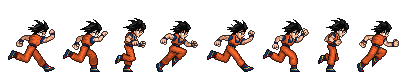
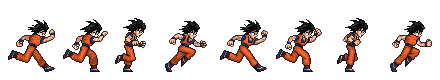
[MOD] corrected run sprite

Changed region(s): [[0.0, 0.225, 0.8529, 0.9], [0.8529, 0.25, 1.0, 0.9]]

diff --git a/src/Game.cpp b/src/Game.cpp
@@ -14,7 +14,7 @@ Game::Game(std::shared_ptr<ResourceAllocator<sf::Texture>> alloc, std::shared_pt
     _player.setTextureAllocator(_alloc);
     _player.load("assets/goku.png");
     _player.setSpritePosition(500, 505);
-    _player.setSpriteRect(0, 51, 80);
+    _player.setSpriteRect(0, 55, 80);
     _music.loadSound("dbz", "assets/music_dbz.ogg");
     _background.setTextureAllocator(_alloc);
     _background.load("assets/Gbackground.png");
@@ -98,7 +98,7 @@ void Game::update()
     if (_player.getFloor() == 0 && !_bossBattle) {
         _start = std::chrono::steady_clock::now();
         _bossBattle = true;
-//        _player.setSpriteScale(2, 2);
+//        _player.setSpriteScale(4, 4);
 //        _player.load("kameha");
     }
     if (_bossBattle && _panel.checkClosed()) {

diff --git a/src/Player.cpp b/src/Player.cpp
@@ -31,8 +31,8 @@ void Player::moveRect()
         count_frame = 0;
     else
         count_frame++;
-    setSpriteRect(count_frame * 51, 51, 80);
-    _sprite.setTextureRect(sf::IntRect(count_frame * 51, 0, 51, 80));
+    setSpriteRect(count_frame * 55, 55, 80);
+    _sprite.setTextureRect(sf::IntRect(count_frame * 55, 0, 55, 80));
 }
 
 void Player::up()
